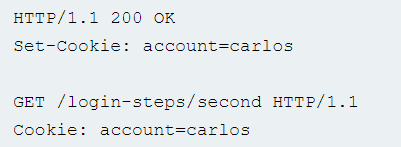
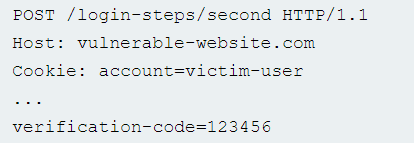
GITBOOK-14: change request with no subject merged in GitBook

diff --git a/readme/vulnerabilities/authentication-vulnerabilities.md b/readme/vulnerabilities/authentication-vulnerabilities.md
@@ -50,11 +50,11 @@
 
     Иногда ошибочная логика двухфакторной аутентификации означает, что после того, как пользователь завершил начальный этап входа в систему, веб-сайт не проверяет должным образом, что тот же пользователь выполняет второй этап. Например, пользователь входит в систему со своими обычными учетными данными на первом этапе следующим образом:
 
-<figure><img src="../../.gitbook/assets/image (2).png" alt=""><figcaption></figcaption></figure>
+<figure><img src="../../.gitbook/assets/image (3).png" alt=""><figcaption></figcaption></figure>
 
 Затем им назначается файл cookie, относящийся к их учетной записи, прежде чем перейти ко второму этапу процесса входа в систему:
 
-<figure><img src="../../.gitbook/assets/image (1).png" alt=""><figcaption></figcaption></figure>
+<figure><img src="../../.gitbook/assets/image (2).png" alt=""><figcaption></figcaption></figure>
 
 При отправке кода подтверждения запрос использует этот файл cookie, чтобы определить, к какой учетной записи пользователь пытается получить доступ:
 
@@ -62,7 +62,7 @@
 
 В этом случае злоумышленник может войти в систему, используя свои собственные учетные данные, но затем изменить значение файла cookie учетной записи на любое произвольное имя пользователя при отправке кода подтверждения.
 
-<figure><img src="../../.gitbook/assets/image (3).png" alt=""><figcaption></figcaption></figure>
+<figure><img src="../../.gitbook/assets/image (1).png" alt=""><figcaption></figcaption></figure>
 
 \[Это чрезвычайно опасно, если злоумышленник затем сможет взломать код подтверждения, поскольку это позволит им входить в учетные записи произвольных пользователей, полностью основываясь на их имени пользователя.
 

diff --git a/readme/vulnerabilities.md b/readme/vulnerabilities.md
@@ -4,5 +4,9 @@
 
 ## [SQL injection](vulnerabilities/sql-injection.md)
 
+## [Insecure direct object references (IDOR)](vulnerabilities/insecure-direct-object-references-idor.md)
+
+##
+
 ##
 
